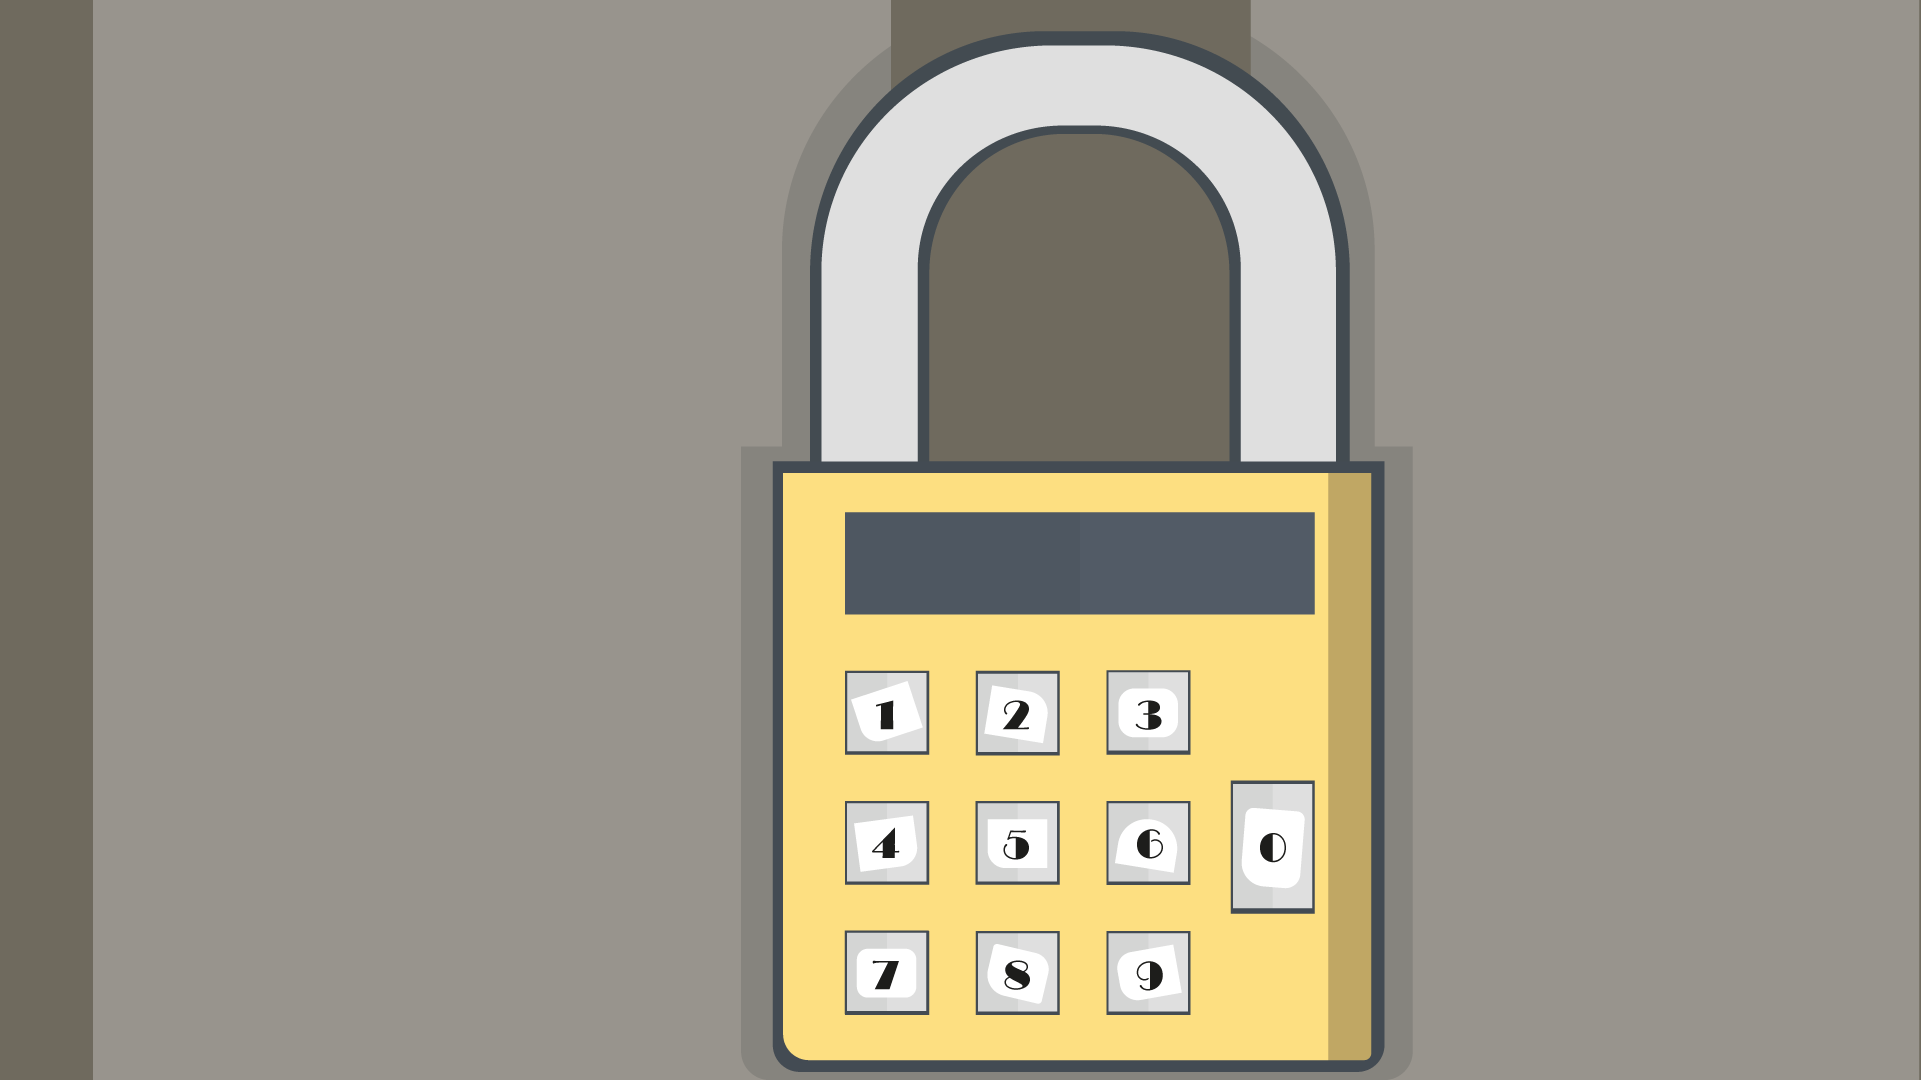
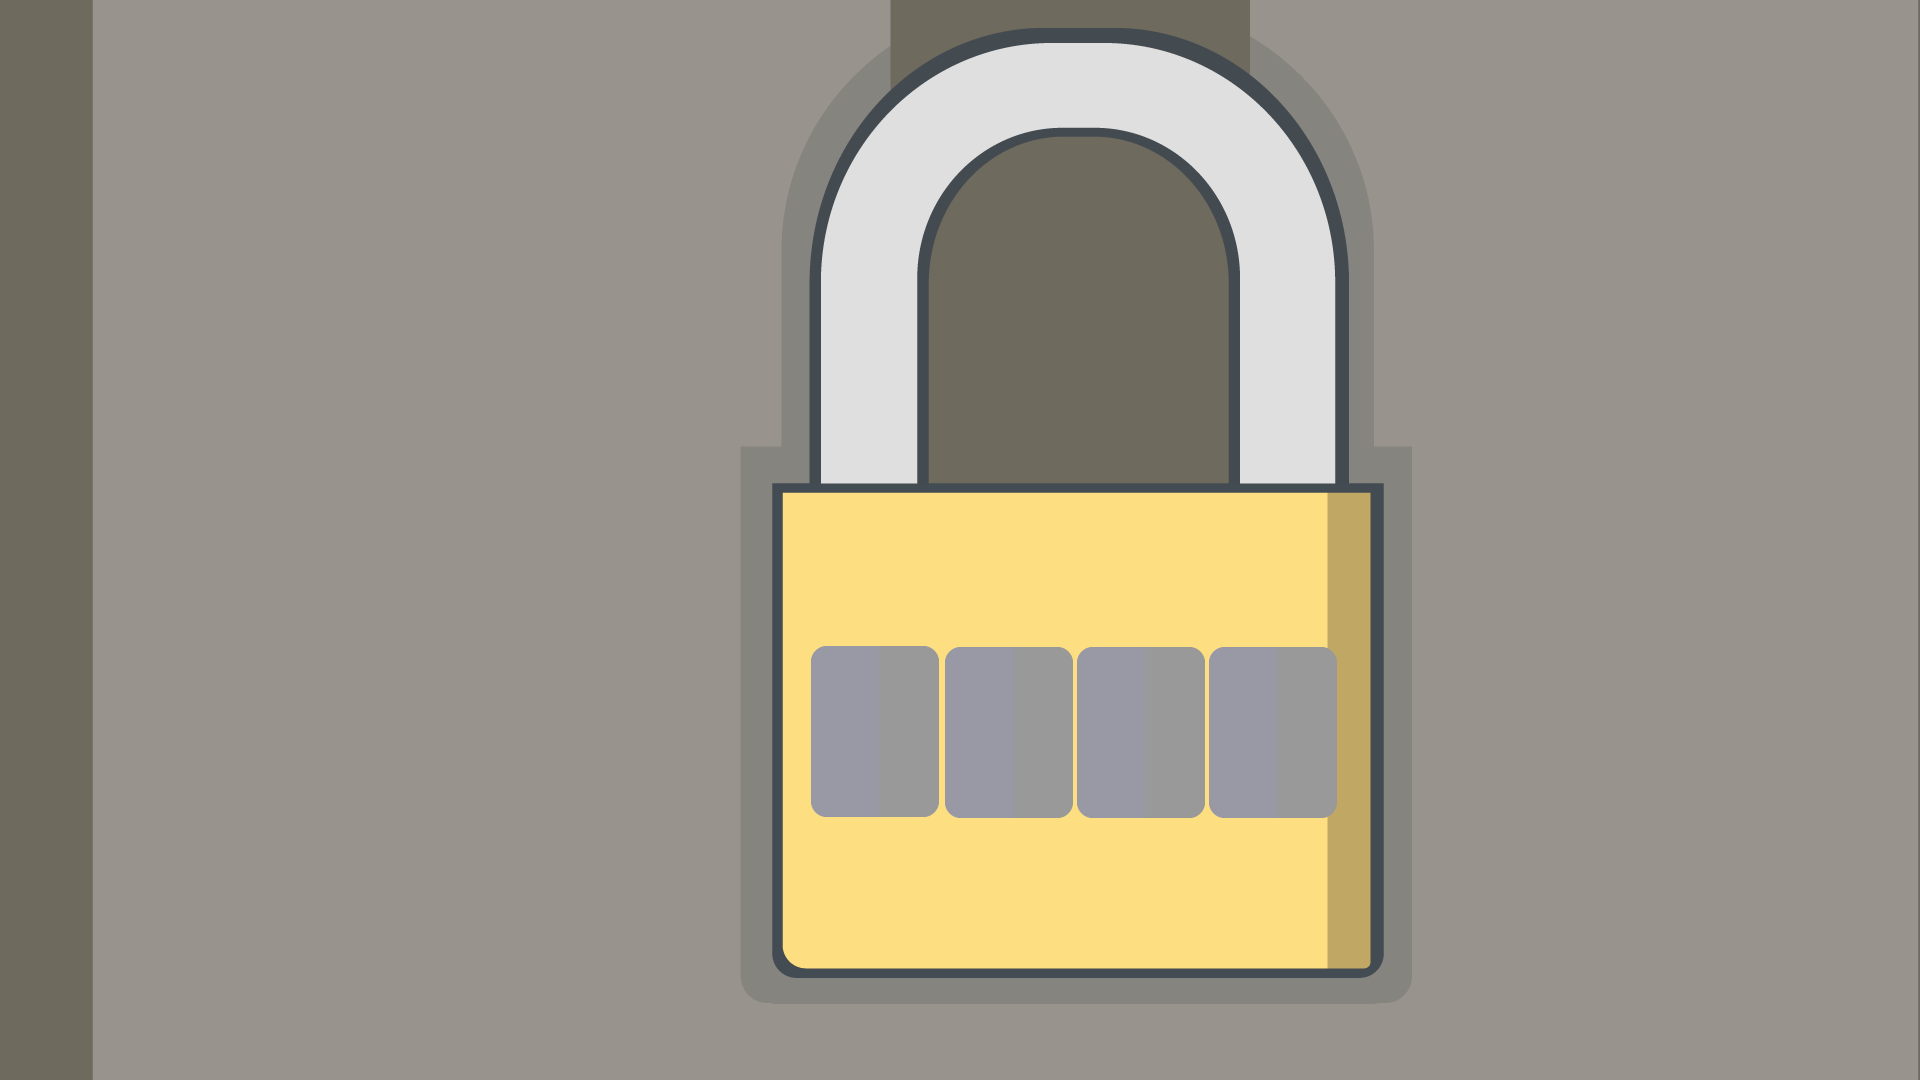
vosemnadcatoemaya

diff --git a/core/src/com/mygdx/game/ScreenZamok.java b/core/src/com/mygdx/game/ScreenZamok.java
@@ -14,7 +14,12 @@ public class ScreenZamok extends JFrame implements Screen {
     KiSH ki;
 
     TextButton btnEXIT;
-    TextButton odin, dva;
+    TextButton btnVIITI;
+
+    int chislo1 = 0;
+    int chislo2 = 0;
+    int chislo3 = 0;
+    int chislo4 = 0;
 
     Texture imgZamok;
 
@@ -25,8 +30,7 @@ public class ScreenZamok extends JFrame implements Screen {
 
         btnEXIT = new TextButton(ki.gameFONT, " ВЫЙТИ\n" +
                 "В МЕНЮ", 850);
-        odin = new TextButton(ki.zamokFONT, "1", 1000, 800);
-        dva = new TextButton(ki.zamokFONT, "2", 1100, 800);
+        btnVIITI = new TextButton(ki.gameFONT, "НАЗАД", 850);
     }
 
     @Override
@@ -42,23 +46,54 @@ public class ScreenZamok extends JFrame implements Screen {
             if (btnEXIT.hit(ki.touch.x/2, ki.touch.y)) {
                 ki.setScreen(ki.screenPogrebOne);
             }
-
         }
 
-        ki.screenDomStarika.n = 0;
+        ki.screenDomStarika.n = 4;
         ki.screenDomStarika.dialog = true;
+
+        if(chislo1 == 6 && chislo2 == 8 && chislo3 == 6 && chislo4 == 9){
+            ki.setScreen(ki.screenPogrebOne);
+        }
+
+        if(ki.touch.x < 130 && ki.touch.y > 900){
+            ki.setScreen(ki.screenDomStarika);
+        }
+
+        if(Gdx.input.justTouched() && ki.touch.x > 810 && ki.touch.x < 935 && ki.touch.y > 263 && ki.touch.y < 435){
+            chislo1++;
+            if(chislo1 > 9){
+                chislo1 = 0;
+            }
+        }
+        if(Gdx.input.justTouched() && ki.touch.x > 940 && ki.touch.x < 1065 && ki.touch.y > 263 && ki.touch.y < 435){
+            chislo2++;
+            if(chislo2 > 9){
+                chislo2 = 0;
+            }
+        }
+        if(Gdx.input.justTouched() && ki.touch.x > 1070 && ki.touch.x < 1195 && ki.touch.y > 263 && ki.touch.y < 435){
+            chislo3++;
+            if(chislo3 > 9){
+                chislo3 = 0;
+            }
+        }
+        if(Gdx.input.justTouched() && ki.touch.x > 1200 && ki.touch.x < 1325 && ki.touch.y > 263 && ki.touch.y < 435){
+            chislo4++;
+            if(chislo4 > 9){
+                chislo4 = 0;
+            }
+        }
 
         ki.camera.update();
         ki.batch.setProjectionMatrix(ki.camera.combined);
         ki.batch.begin();
         ki.batch.draw(imgZamok, 0,0, SCR_WIDTH, SCR_HEIGHT);
-        if(ki.touch.x>845 && ki.touch.x<930 && ki.touch.y>325 && ki.touch.y<410) {
-            odin.font.draw(ki.batch, odin.text, 900, 590);
-        }
-        if(ki.touch.x>975 && ki.touch.x<1060 && ki.touch.y>325 && ki.touch.y<410){
-            dva.font.draw(ki.batch, dva.text, 1000, 590);
-        }
+        ki.introFONT.draw(ki.batch, String.valueOf(chislo1), 845, 445);
+        ki.introFONT.draw(ki.batch, String.valueOf(chislo2), 970, 445);
+        ki.introFONT.draw(ki.batch, String.valueOf(chislo3), 1095, 445);
+        ki.introFONT.draw(ki.batch, String.valueOf(chislo4), 1220, 445);
         btnEXIT.font.draw(ki.batch, btnEXIT.text, btnEXIT.x*500/251, btnEXIT.y);
+        btnVIITI.font.draw(ki.batch, btnVIITI.text, btnEXIT.x*0, btnEXIT.y);
         ki.batch.end();
     }
 

diff --git a/core/src/com/mygdx/game/ScreenUlitsa2.java b/core/src/com/mygdx/game/ScreenUlitsa2.java
@@ -5,35 +5,30 @@ import static com.mygdx.game.KiSH.SCR_WIDTH;
 
 import com.badlogic.gdx.Gdx;
 import com.badlogic.gdx.Screen;
+import com.badlogic.gdx.audio.Sound;
 import com.badlogic.gdx.graphics.Texture;
+import com.badlogic.gdx.graphics.g2d.BitmapFont;
+import com.badlogic.gdx.scenes.scene2d.Stage;
 
-public class ScreenDomLesnika implements Screen {
+import java.awt.TextField;
+
+public class ScreenUlitsa2 implements Screen{
     KiSH ki;
 
-    Texture imgDomLesnika;
+    Texture imgUlitsa;
 
     TextButton btnEXIT;
 
-    String text = new String();
-
     int n = 0;
 
-    public ScreenDomLesnika(KiSH kiSH){
+    public ScreenUlitsa2(KiSH kiSH) {
         ki = kiSH;
-
-        imgDomLesnika = new Texture("foni/domLesnika.png");
-
+        imgUlitsa = new Texture("foni/ulitsa1.png");
         btnEXIT = new TextButton(ki.gameFONT, " ВЫЙТИ\n" +
                 "В МЕНЮ", 850);
-
-        text = "-БЛИН, СХОЖУ ХОТЬ ЗА ГРИБАМИ";
     }
-    @Override
+
     public void show() {
-        ki.brod.x = 500;
-        ki.brod.speed = 0;
-        ki.brod.faza = 0;
-        ki.lesnik.faza = 0;
     }
 
     @Override
@@ -42,33 +37,26 @@ public class ScreenDomLesnika implements Screen {
             ki.touch.set(Gdx.input.getX(), Gdx.input.getY(), 0);
             ki.camera.unproject(ki.touch);
             n++;
-            if (btnEXIT.hit(ki.touch.x/2, ki.touch.y)) {
+            if (btnEXIT.hit(ki.touch.x / 2, ki.touch.y)) {
                 ki.setScreen(ki.screenMenu);
             }
-
-            ki.brod.goTo(ki.touch.x-ki.brod.width*5/4);
-            ki.lesnik.goToL(ki.touch.x);
+            ki.brod.goTo(ki.touch.x);
         }
-
-        if(n > 1){
+        if(n > 0) {
             ki.brod.move();
-            ki.lesnik.moving();
         }
 
-        if(ki.brod.x < 180 && ki.touch.x < 180){
-            ki.setScreen(ki.screenGribi);
-        }
+        ki.screenDomStarika.n = 4;
 
-        ki.screenDomLesnikaLes.n = 0;
+        if(ki.brod.x < 1800 && ki.brod.x > 1625 && ki.touch.x > 1625 && ki.touch.x < 1800){
+            ki.setScreen(ki.screenDomStarika);
+        }
 
         ki.camera.update();
         ki.batch.setProjectionMatrix(ki.camera.combined);
         ki.batch.begin();
-        ki.batch.draw(imgDomLesnika, 0, 0, SCR_WIDTH, SCR_HEIGHT);
-        ki.batch.draw(ki.imgBrod[ki.brod.faza], ki.brod.x, 80, ki.brod.width*10/4, ki.brod.height*10/4, 0, 0, 253, 587, ki.brod.flip(), false);
-        if(n == 1){
-            ki.dialogDomStarikFONT.draw(ki.batch, text, ki.brod.x + 250, 900);
-        }
+        ki.batch.draw(imgUlitsa, 0,0, SCR_WIDTH, SCR_HEIGHT);
+        ki.batch.draw(ki.imgBrod[ki.brod.faza], ki.brod.getX(), ki.brod.y, ki.brod.width, ki.brod.height, 0, 0, 253, 587, ki.brod.flip(), false);
         btnEXIT.font.draw(ki.batch, btnEXIT.text, btnEXIT.x*500/251, btnEXIT.y);
         ki.batch.end();
     }
@@ -95,6 +83,6 @@ public class ScreenDomLesnika implements Screen {
 
     @Override
     public void dispose() {
-        imgDomLesnika.dispose();
+        imgUlitsa.dispose();
     }
 }

diff --git a/core/src/com/mygdx/game/KiSH.java b/core/src/com/mygdx/game/KiSH.java
@@ -33,6 +33,7 @@ public class KiSH extends Game {
     ScreenMenu screenMenu;
     ScreenAbout screenAbout;
     ScreenDomStarika screenDomStarika;
+    ScreenUlitsa2 screenUlitsa2;
     ScreenStarikNaPoroge screenStarikNaPoroge;
     ScreenZamok screenZamok;
     ScreenPogrebOne screenPogrebOne;
@@ -85,6 +86,7 @@ public class KiSH extends Game {
         imgObor[3] = new Texture("geroi/obor4.png");
         screenMenu = new ScreenMenu(this);
         screenUlitsa = new ScreenUlitsa(this);
+        screenUlitsa2 = new ScreenUlitsa2(this);
         screenAbout = new ScreenAbout(this);
         screenDomStarika = new ScreenDomStarika(this);
         screenStarikNaPoroge = new ScreenStarikNaPoroge(this);
@@ -107,7 +109,7 @@ public class KiSH extends Game {
         brod = new Brod(120, 176, 130, 300);
         lesnik = new Lesnik(0, 290, 477, 7);
         oboroten = new Oboroten(0, 249, 474, 10);
-        setScreen(screenZamok);
+        setScreen(screenMenu);
 
     }
 

diff --git a/core/src/com/mygdx/game/ScreenDomStarika.java b/core/src/com/mygdx/game/ScreenDomStarika.java
@@ -68,6 +68,13 @@ public class ScreenDomStarika implements Screen {
             ki.setScreen(ki.screenZamok);
         }
 
+        if(ki.brod.x < 200 && ki.touch.x < 200){
+            ki.setScreen(ki.screenUlitsa2);
+            ki.brod.x = 1700;
+            ki.brod.faza = 0;
+        }
+
+        ki.screenUlitsa2.n = 0;
         ki.screenStarikNaPoroge.n = 0;
 
         ki.camera.update();

diff --git a/core/src/com/mygdx/game/ScreenPogrebOne.java b/core/src/com/mygdx/game/ScreenPogrebOne.java
@@ -45,6 +45,11 @@ public class ScreenPogrebOne implements Screen {
             ki.setScreen(ki.screenLes);
         }
 
+        ki.screenZamok.chislo1 = 0;
+        ki.screenZamok.chislo2 = 0;
+        ki.screenZamok.chislo3 = 0;
+        ki.screenZamok.chislo4 = 0;
+
         ki.camera.update();
         ki.batch.setProjectionMatrix(ki.camera.combined);
         ki.batch.begin();
